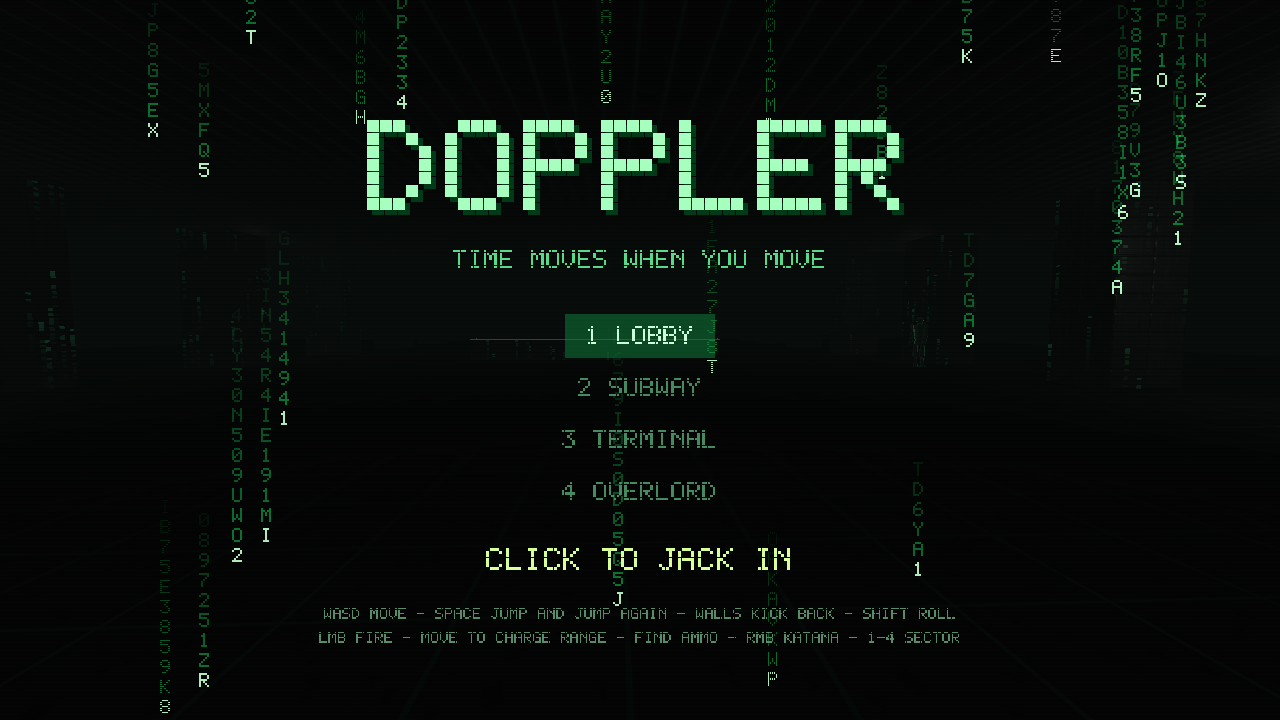
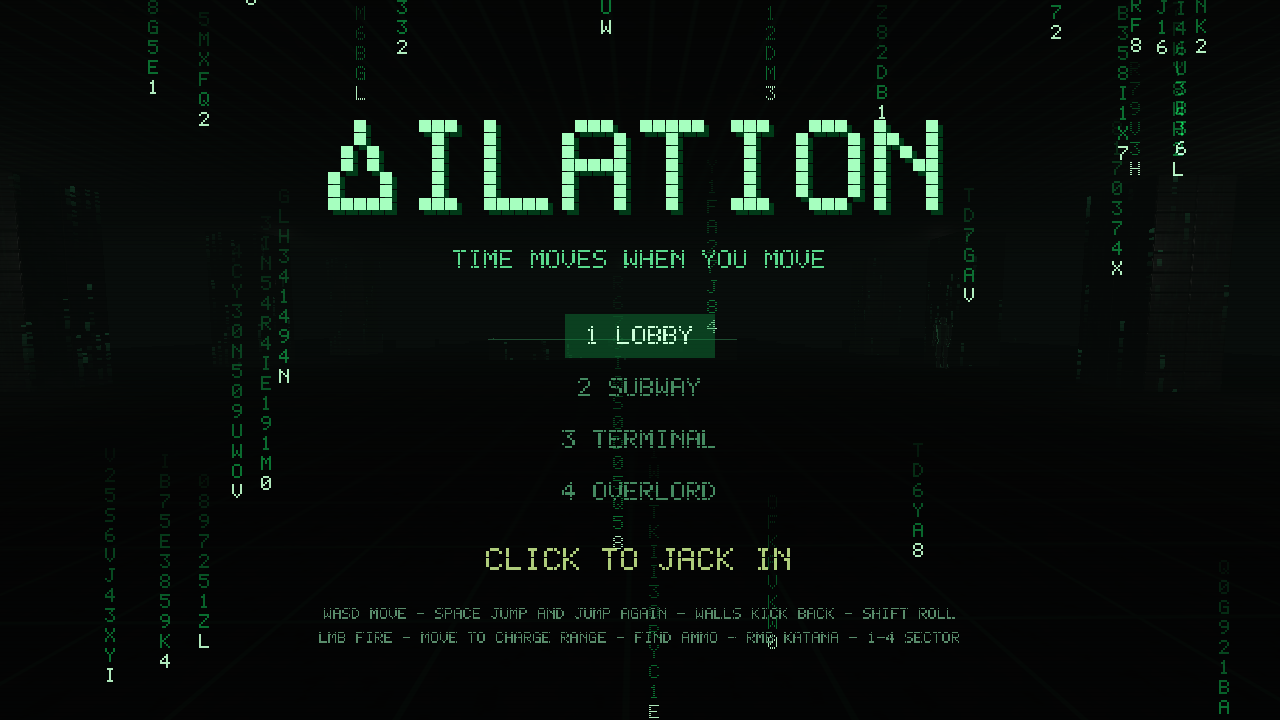
dilation game

diff --git a/README.md b/README.md
@@ -1,8 +1,8 @@
-# DOPPLER
+# Δ
 
 **Time moves when you move.**
 
-A single-file SUPERHOT × *Matrix* homage in the demoscene tradition: one C file,
+A single-file SUPERHOT × *Matrix* × **TRON** homage in the demoscene tradition: one C file,
 no assets on disk, no engine. Every texture, level, mesh, sound, and font is
 synthesized at startup or runtime. Stripped down to immediate-mode OpenGL 2 and
 SDL2, the whole game is one `.c` file and compiles to under ~150Kb.
@@ -24,16 +24,16 @@ Requires SDL2 and OpenGL.
 
 ```sh
 ./build.sh        # clang on macOS, gcc on Linux
-./doppler         # play
-./doppler --level 2   # jump straight to a sector (0-based)
-./doppler --seed 1234 # reseed the procedural levels
+./dilation         # play
+./dilation --level 2   # jump straight to a sector (0-based)
+./dilation --seed 1234 # reseed the procedural levels
 ```
 
 Or build by hand:
 
 ```sh
-gcc -Os doppler.c -o doppler -lSDL2 -lGL -lm        # Linux
-clang -Os doppler.c -o doppler -I/opt/homebrew/include -L/opt/homebrew/lib \
+gcc -Os dilation.c -o dilation -lSDL2 -lGL -lm        # Linux
+clang -Os dilation.c -o dilation -I/opt/homebrew/include -L/opt/homebrew/lib \
   -lSDL2 -framework OpenGL -lm                       # macOS (Homebrew SDL2)
 ```
 
@@ -54,7 +54,7 @@ Clear every agent in a sector to win.
 
 ## Regression mode
 
-`./doppler --smoke` runs a fixed, deterministic choreography and writes nine PPM
+`./dilation --smoke` runs a fixed, deterministic choreography and writes nine PPM
 screenshots, then prints `SMOKE OK`. It forces `tscale=1` and fixed RNG seeds,
 so output is byte-stable run-to-run — a cheap visual/behavioral regression gate
 for refactors.